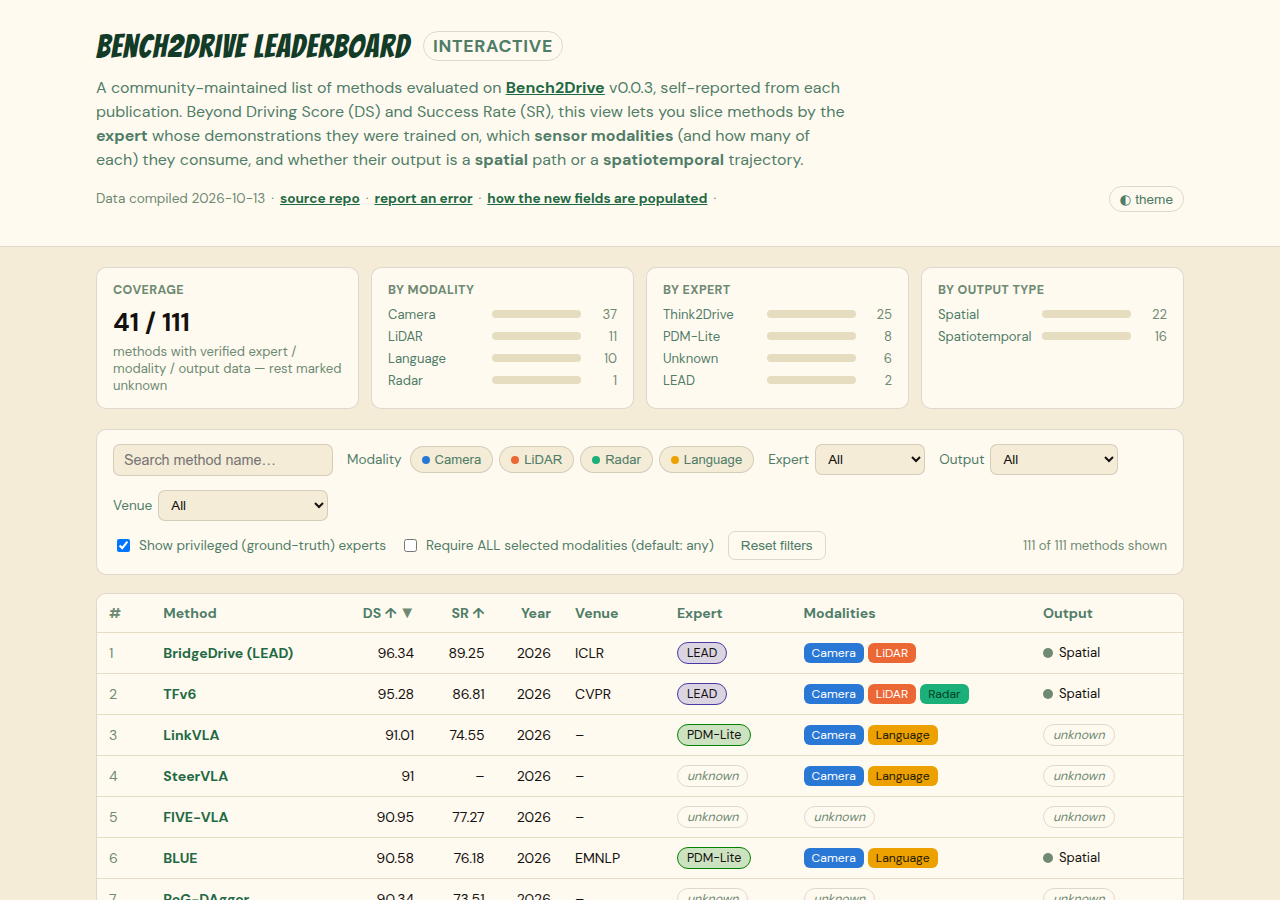
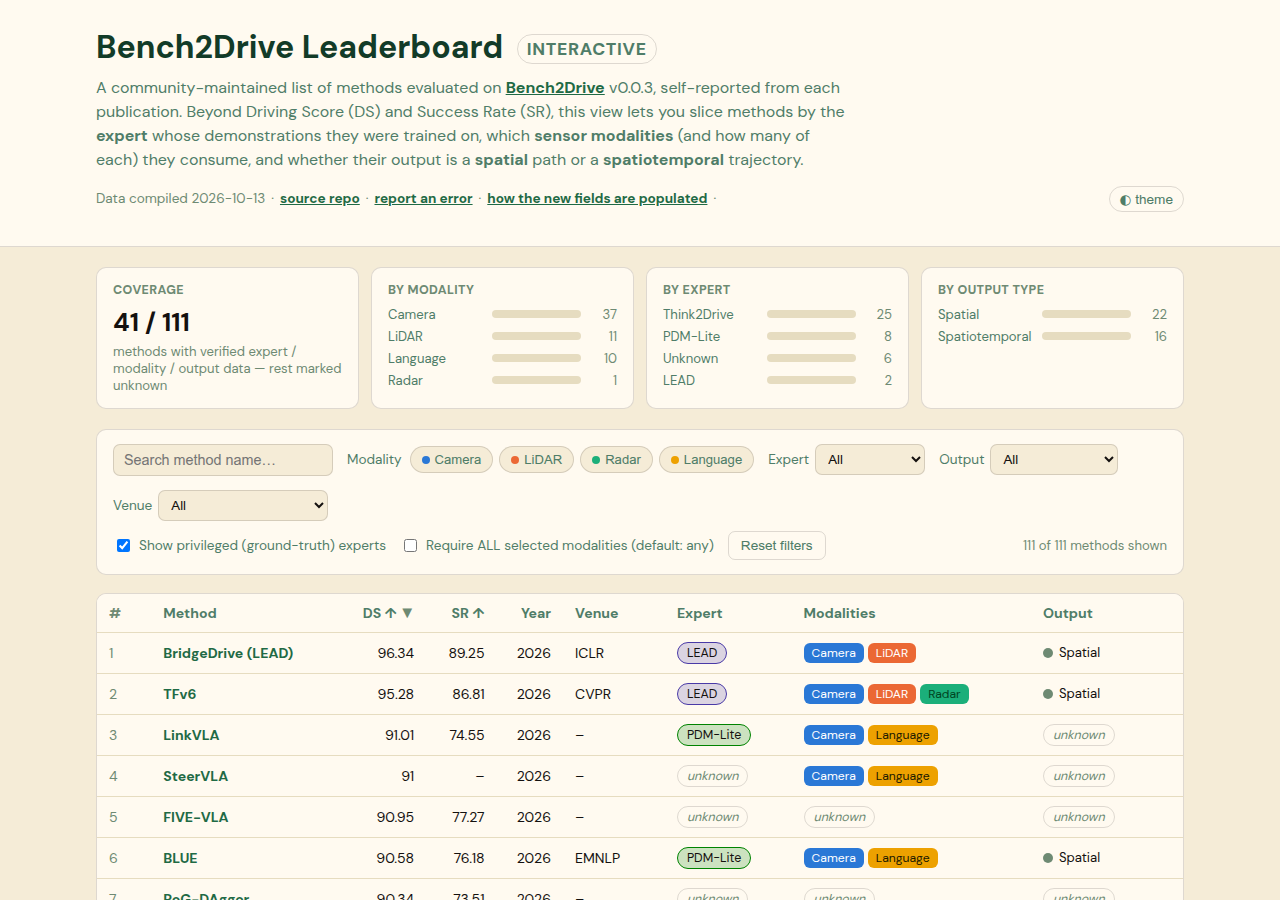
Drop comic display font from headings, keep forest-green color
Removes the Bangers font (and its Google Fonts import) entirely; headings now
use bold DM Sans in the same forest-green color. Refreshes the README
screenshot to match.

Changed region(s): [[0.0625, 0.0311, 0.5, 0.0622]]

diff --git a/docs/index.html b/docs/index.html
@@ -7,7 +7,7 @@
 <meta name="description" content="Interactive, filterable Bench2Drive autonomous-driving leaderboard: filter and sort by driving score, expert supervision, sensor modalities and output type." />
 <link rel="preconnect" href="https://fonts.googleapis.com" />
 <link rel="preconnect" href="https://fonts.gstatic.com" crossorigin />
-<link href="https://fonts.googleapis.com/css2?family=Bangers&family=DM+Sans:wght@400;500;700&display=swap" rel="stylesheet" />
+<link href="https://fonts.googleapis.com/css2?family=DM+Sans:wght@400;500;700&display=swap" rel="stylesheet" />
 <link rel="stylesheet" href="styles.css" />
 </head>
 <body>

diff --git a/docs/styles.css b/docs/styles.css
@@ -2,7 +2,6 @@
   color-scheme: light;
   /* palette + type from samlei.io ("forest-green comic" tokens), toned down for a data-dense page */
   --font-body:    'DM Sans', Arial, sans-serif;
-  --font-display: 'Bangers', 'Brush Script MT', serif;
 
   --surface-1:      #fffaf0;   /* card */
   --surface-2:      #f5ecd7;   /* paper */
@@ -67,9 +66,8 @@ a { color: var(--accent); font-weight: 700; }
 a:hover { color: var(--accent-strong); }
 
 .brand-font {
-  font-family: var(--font-display);
-  font-weight: 400;
-  letter-spacing: 1px;
+  font-family: var(--font-body);
+  font-weight: 700;
   color: var(--accent-strong);
 }
 
